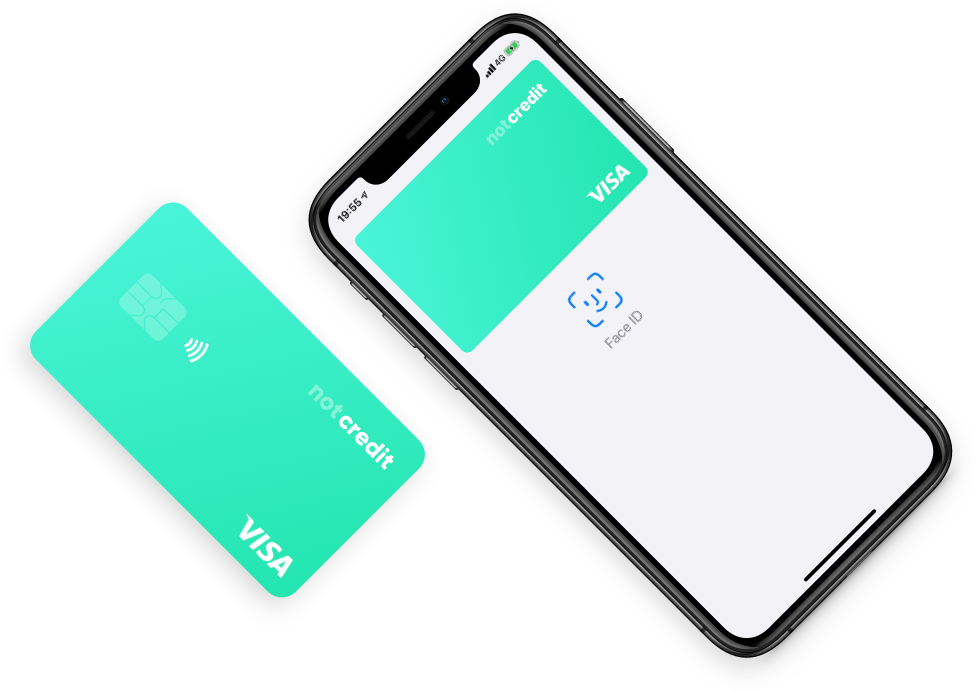
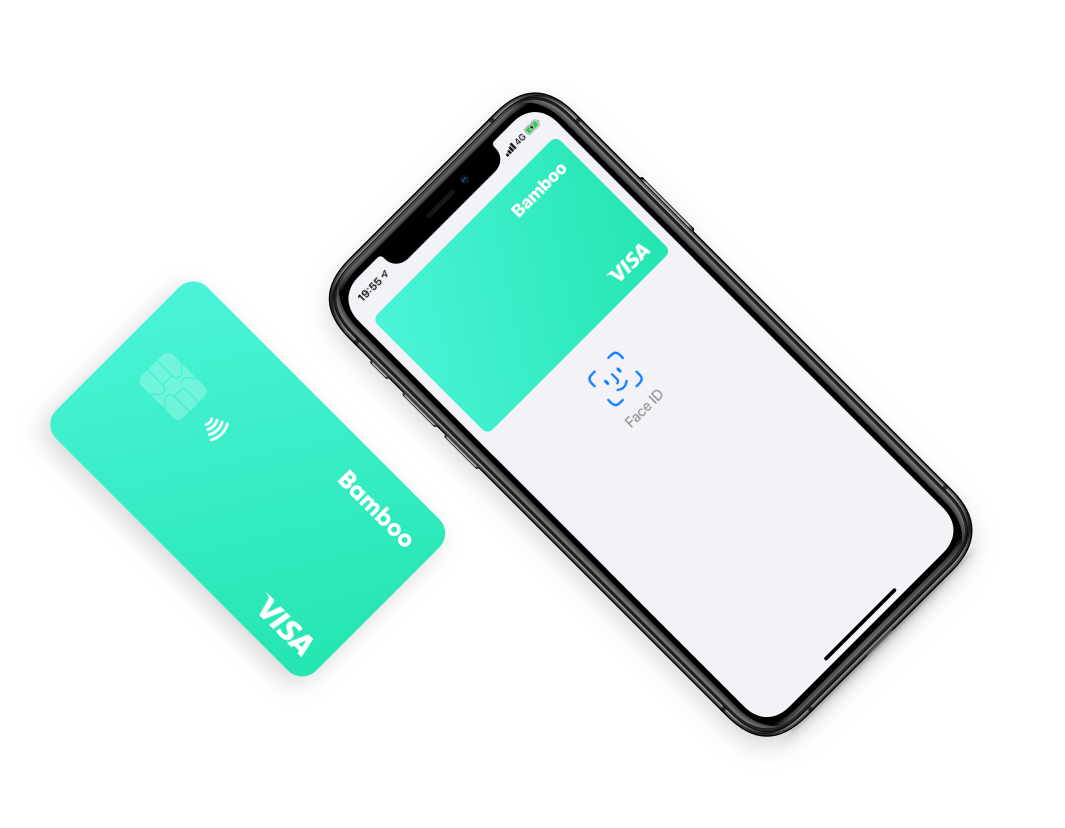
Update brand to Bamboo

diff --git a/src/components/layout.js b/src/components/layout.js
@@ -10,6 +10,7 @@ import PropTypes from "prop-types"
 import { useStaticQuery, graphql } from "gatsby"
 
 import Header from "./header"
+import Footer from "./Footer"
 import "./layout.css"
 
 const Layout = ({ children }) => {
@@ -28,17 +29,7 @@ const Layout = ({ children }) => {
       <Header siteTitle={data.site.siteMetadata.title} />
       <div>
         <main>{children}</main>
-          <footer>
-            <div className="Container">
-              <h3><a href="#">Legal Stuff</a></h3>
-              <h3><a href="#">Terms and Conditions</a></h3>
-              <h3><a href="#">Cookie Policy</a></h3>
-              <h3><a href="#">Refer a Friend</a></h3>
-              <h3><a href="#">Write a review</a></h3>
-              <br></br>
-              © Copyright notCredit {new Date().getFullYear()}
-            </div>
-          </footer>
+        <Footer/>
       </div>
     </>
   )

diff --git a/src/pages/index.scss b/src/pages/index.scss
@@ -68,7 +68,6 @@ p, input {
   font-size: 14px;
   color: rgba(0,0,0,0.6);
   text-transform: uppercase;
-  margin-bottom: 0.5rem;
 }
 
 img {
@@ -81,6 +80,11 @@ a {
   font-weight: 600;
 }
 
+label {
+  display: block;
+  margin-bottom: 0.5rem;
+}
+
 input {
   font-size: 20px;
   width: 100%;
@@ -89,7 +93,6 @@ input {
   border-radius: $radius-btn;
   padding: 8px 20px;
   box-sizing: border-box;
-  margin: 0.25rem 0 0.75rem 0;
   transition: $transition-standard;
 }
 
@@ -118,17 +121,18 @@ input.HeroInput {
 .btn {
   display: inline-block;
   font-weight: 600;
-  padding: 7px 24px;
+  padding: 6px 24px;
   border-radius: $radius-btn;
   transition: $transition-standard;
   cursor: pointer;
+  line-height: 24px;
 }
 
 .btn-input {
   position: absolute;
-  top: 8px;
-  right: 8px;
-  margin: 0.25rem 0 0.75rem 0;
+  top: 0;
+  right: 0;
+  margin: 10px;
 }
 
 .btn-Primary {

diff --git a/src/components/Footer.js b/src/components/Footer.js
@@ -1,0 +1,31 @@
+import React from 'react'
+
+class Footer extends React.Component {
+  constructor(props) {
+    super(props)
+
+    this.state = {
+    }
+  }
+
+  render() {
+    return (
+      <footer>
+        <div className="Container">
+          <h3><a href="#">Legal Stuff</a></h3>
+          <h3><a href="#">Terms and Conditions</a></h3>
+          <h3><a href="#">Cookie Policy</a></h3>
+          <h3><a href="#">Refer a Friend</a></h3>
+          <h3><a href="#">Write a review</a></h3>
+          <br></br>
+          © Copyright GetBamboo {new Date().getFullYear()}
+        </div>
+      </footer>
+    )
+  }
+}
+
+export default Footer
+
+
+

diff --git a/src/components/header.js b/src/components/header.js
@@ -29,7 +29,7 @@ class Header extends React.Component {
     return (
       <div className={this.state.hasScrolled ? 'Header HeaderScrolled' : 'Header'}>
         <div className="HeaderGroup">
-          <Link className="d-flex align-items-center" to="/"><div className="LogoRound"></div><h2>notCredit</h2></Link>
+          <Link className="d-flex align-items-center" to="/"><div className="LogoRound"></div><h2>Bamboo</h2></Link>
           <Link className="btn btn-SecondaryGhost" to="/page-2/">Sign Up</Link>
         </div>
       </div>

diff --git a/src/pages/index.js b/src/pages/index.js
@@ -44,8 +44,8 @@ const IndexPage = () => (
           <Feature 
               class="Feature"
               mainFeature={true}
-              image={require('../images/noCredit_card.png')}
-              title="notCredit"
+              image={require('../images/Bamboo_card.png')}
+              title="Bamboo"
               listItem1="🎉	 Supercharges credit score"
               listItem2="🛡	 3x Better fraud protection"
               listItem3="🙌	 No debt"

diff --git a/src/pages/elements.js b/src/pages/elements.js
@@ -81,9 +81,8 @@ const ElementsPage = () => (
             </div>
             <div className="Group">
                 <p>Basic Input with Label</p>
-                <label>Label
-                    <input placeholder="Basic Input" type="text" />
-                </label>
+                <label>Label</label>
+                <input placeholder="Basic Input" type="text" />
             </div>
         </div>
 
